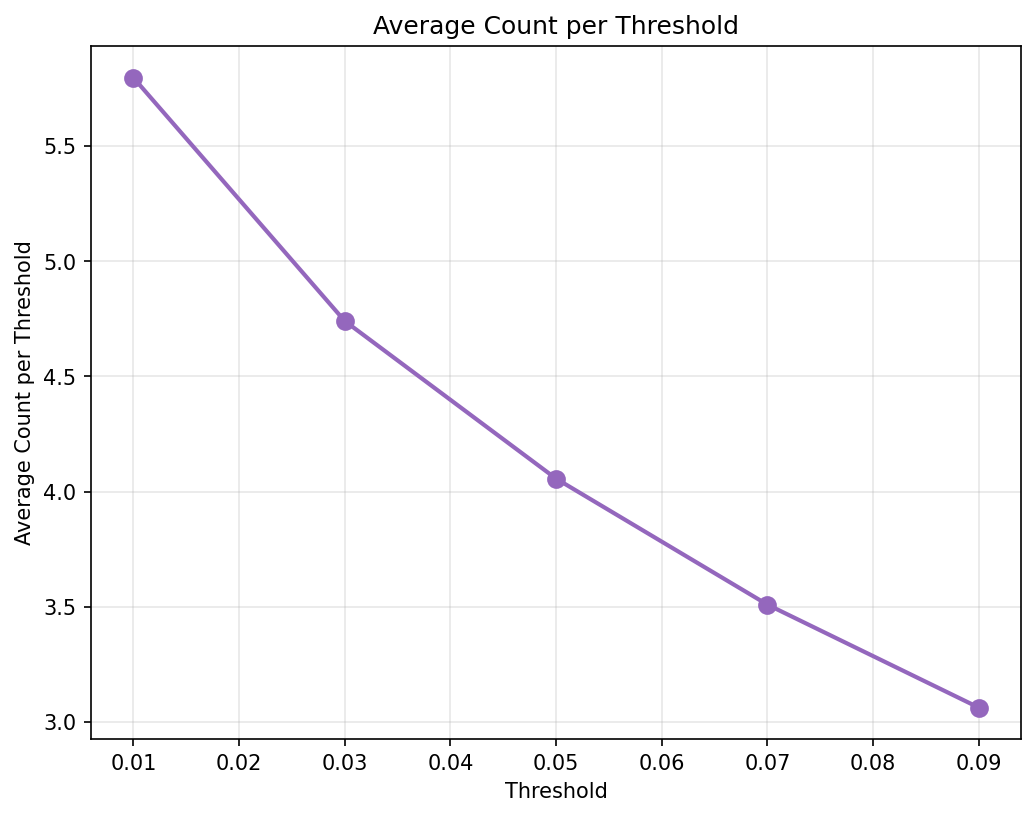
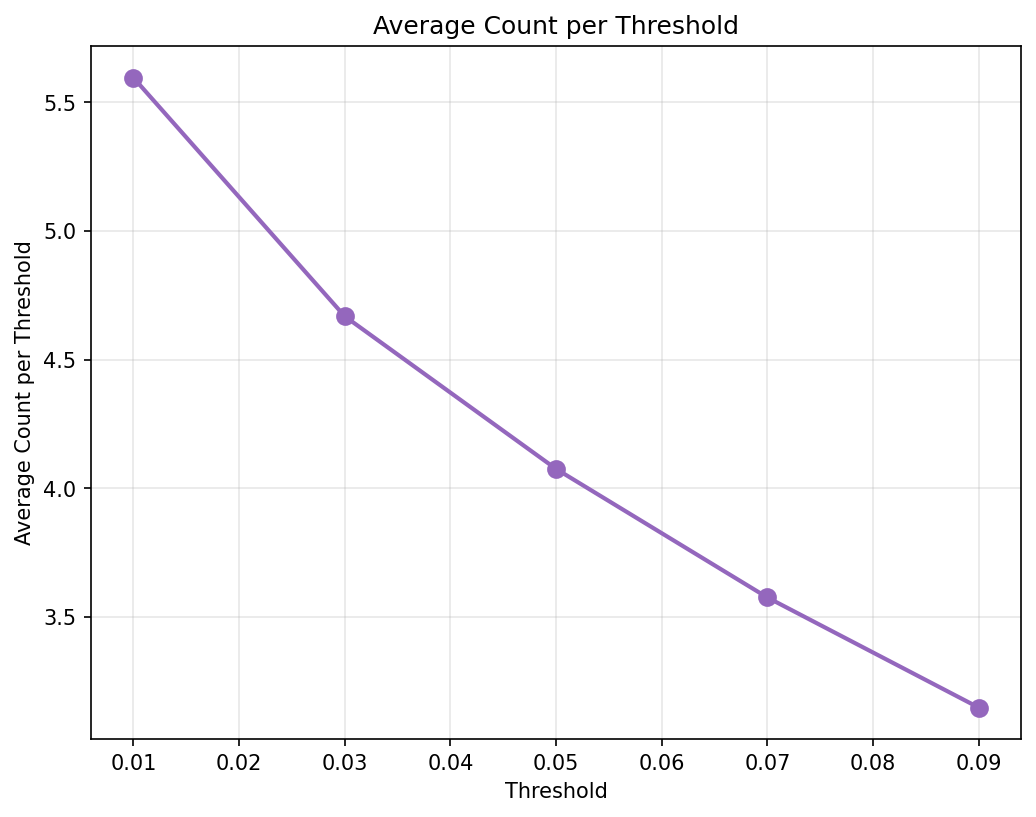
sdf

diff --git a/compare_candidateset.py b/compare_candidateset.py
@@ -21,15 +21,19 @@ count1 = data1['ave_count_perthreshold']
 count2 = data2['ave_count_perthreshold']
 
 # Plot comparison
-plt.figure(figsize=(10, 6))
-plt.plot(thresholds1, count1, marker='o', linewidth=2, markersize=8, label='model without layer normalization', color='#1f77b4')
-plt.plot(thresholds2, count2, marker='s', linewidth=2, markersize=8, label='model with layer normalization', color='#ff7f0e')
-plt.xlabel('Threshold')
-plt.ylabel('Average Count per Threshold')
-plt.title('Average Count per Threshold Comparison')
-plt.legend()
-plt.grid(True, alpha=0.3)
-plt.savefig('plots_comparison/count_comparison.png', dpi=150, bbox_inches='tight')
+fig, ax = plt.subplots(figsize=(4.5, 4))
+ax.plot(thresholds1, count1, marker='o', linewidth=2.2, markersize=7, label='Without LayerNorm', color='#2c7bb6')
+ax.plot(thresholds2, count2, marker='s', linewidth=2.2, markersize=7, label='With LayerNorm', color='#d7191c')
+ax.set_xlabel('Threshold', fontsize=12)
+ax.set_ylabel('Average size of candidate set', fontsize=12)
+ax.set_title('Average size of candidate set per threshold', fontsize=13, fontweight='bold')
+ax.legend(fontsize=10, framealpha=0.9)
+ax.grid(True, alpha=0.2, linestyle=':')
+ax.tick_params(labelsize=11)
+ax.spines['top'].set_visible(False)
+ax.spines['right'].set_visible(False)
+fig.tight_layout()
+fig.savefig('plots_comparison/count_comparison.png', dpi=300, bbox_inches='tight')
 print('Plot saved to plots_comparison/count_comparison.png')
 plt.close()
 

diff --git a/results/topk_and_candidateset/topk_and_candidateset.tex b/results/topk_and_candidateset/topk_and_candidateset.tex
@@ -1,0 +1,16 @@
+\begin{figure}[t]
+  \centering
+  \begin{subfigure}[t]{0.48\textwidth}
+    \centering
+    \includegraphics[width=\linewidth]{results/topk_and_candidateset/count_comparison.png}
+    \label{fig:candidate_set_size}
+  \end{subfigure}
+  \hfill
+  \begin{subfigure}[t]{0.48\textwidth}
+    \centering
+    \includegraphics[width=\linewidth]{results/topk_and_candidateset/compare_topk_inclusion.png}
+    \label{fig:topk_inclusion}
+  \end{subfigure}
+  \caption{Comparison of attention-based retrieval between models trained with and without layer normalization. \textbf{(Left)}~Average size of the candidate set (tokens whose attention score exceeds a given threshold) as a function of the threshold. \textbf{(Right)}~Percentage of decoding positions at which the correct next token appears among the top-$k$ attended previous positions, as a function of~$k$. Both models achieve near-perfect inclusion by $k{=}5$, indicating that the first attention layer reliably assigns high scores to the token that should be produced next.}
+  \label{fig:topk_and_candidateset}
+\end{figure}
